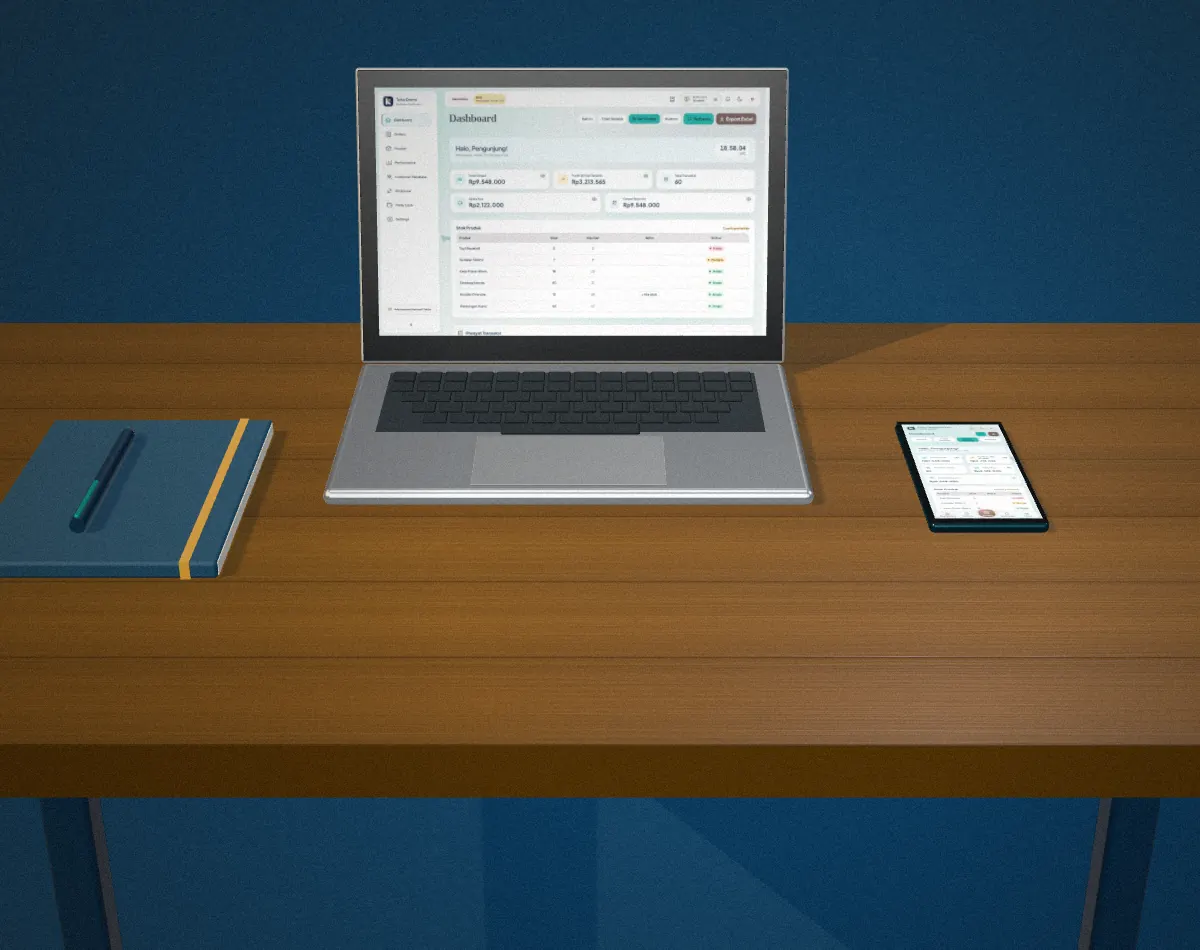
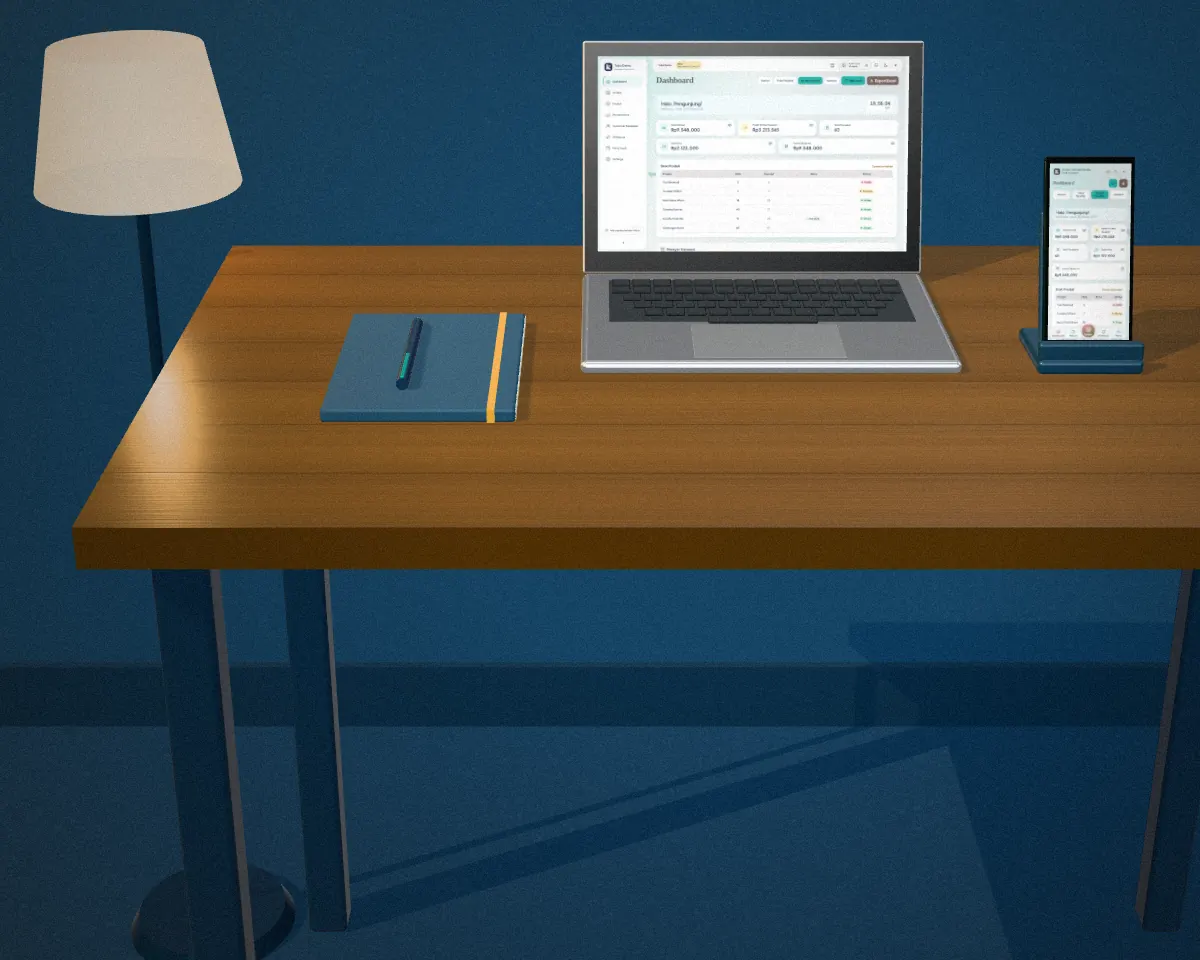
hero: lampu berdiri, HP di phone holder, pigura dinding, meja lebih maju
Revisi terakhir owner. HP berdiri supaya layar dashboard terlihat, lampu setinggi laptop
di kiri meja, dinding diberi plint + satu pigura abstrak palet Kairo (tidak ramai).
Geser lensa kamera kini berskala sama di dua arah (sebelumnya gambar sedikit melebar).
Kap lampu & pigura ditempatkan di luar area logo dan menu.

Claude-Session: https://claude.ai/code/session_01LPzsaCKs45cXjg8tn567aQ

diff --git a/.claude/testing/hero3d/scene.html b/.claude/testing/hero3d/scene.html
@@ -42,7 +42,18 @@ const floorTex=canvasTex(1024,1024,(x,w,h)=>{x.fillStyle='#173a59';x.fillRect(0,
 const floor=new THREE.Mesh(new THREE.PlaneGeometry(900,900),new THREE.MeshStandardMaterial({map:floorTex,roughness:.92}));floor.rotation.x=-Math.PI/2;floor.position.y=-TH-LEG;floor.receiveShadow=true;scene.add(floor);
 scene.background=new THREE.Color('#173a59');
 const wallTex=canvasTex(1024,1024,(x,w,h)=>{x.fillStyle='#1f4668';x.fillRect(0,0,w,h);for(let i=0;i<90000;i++){x.fillStyle=`rgba(${rnd()<.5?'255,255,255':'0,0,0'},${rnd()*.025})`;x.fillRect(rnd()*w,rnd()*h,2,2)}},[4,3]);
-const wall=new THREE.Mesh(new THREE.PlaneGeometry(700,320),new THREE.MeshStandardMaterial({map:wallTex,roughness:.95}));wall.position.set(0,-TH-LEG+160,-DD/2-14);wall.receiveShadow=true;scene.add(wall);
+const wall=new THREE.Mesh(new THREE.PlaneGeometry(700,320),new THREE.MeshStandardMaterial({map:wallTex,roughness:.95}));wall.position.set(0,-TH-LEG+160,-DD/2-34);wall.receiveShadow=true;scene.add(wall);
+const WZ=-DD/2-34,FY=-TH-LEG;
+const skirt=new THREE.Mesh(new THREE.BoxGeometry(700,9,1.2),new THREE.MeshStandardMaterial({color:'#123049',roughness:.7}));skirt.position.set(0,FY+4.5,WZ+.6);skirt.receiveShadow=true;scene.add(skirt);
+// pigura: bingkai kayu tipis, passe-partout putih tulang, karya abstrak palet Kairo (lingkaran emas, busur toska, garis delft)
+const artTex=canvasTex(800,1000,(x,w,h)=>{x.fillStyle='#fbfcf8';x.fillRect(0,0,w,h);x.fillStyle='#dceff4';x.fillRect(90,90,w-180,h-180);
+  x.fillStyle='#dfa94a';x.beginPath();x.arc(w*.6,h*.38,120,0,7);x.fill();
+  x.strokeStyle='#25b9b0';x.lineWidth=46;x.beginPath();x.arc(w*.42,h*.66,150,Math.PI*1.05,Math.PI*1.95);x.stroke();
+  x.fillStyle='#173a59';x.fillRect(150,h-230,w-300,18);});
+const art=new THREE.Group();scene.add(art);
+const frame=new THREE.Mesh(new THREE.BoxGeometry(34,42,1.6),new THREE.MeshStandardMaterial({color:'#5a3a12',roughness:.5}));frame.castShadow=true;art.add(frame);
+const canvasArt=new THREE.Mesh(new THREE.PlaneGeometry(31,39),new THREE.MeshStandardMaterial({map:artTex,roughness:.85}));canvasArt.position.z=.82;art.add(canvasArt);
+art.position.set(-6,38,WZ+.9);art.scale.setScalar(.72);
 // buku catatan (sampul delft, karet emas) + pulpen di atasnya = 2 item, sejajar rapi di kiri laptop
 const book=new THREE.Group();scene.add(book);
 const cover=new THREE.Mesh(new RoundedBoxGeometry(15,1.1,21,3,.25),new THREE.MeshPhysicalMaterial({color:'#31556f',roughness:.55,sheen:.3}));cover.position.y=.55;cover.castShadow=cover.receiveShadow=true;book.add(cover);
@@ -83,14 +94,31 @@ const pbody=new THREE.Mesh(new RoundedBoxGeometry(PW,0.8,PL,8,0.9),new THREE.Mes
 const pglass=new THREE.Mesh(new RoundedBoxGeometry(PW-0.2,0.02,PL-0.2,6,0.8),new THREE.MeshStandardMaterial({color:'#05080a',roughness:.15}));pglass.position.y=0.81;phone.add(pglass);
 const ps=await tex('hero-phone.webp');const PSW=PW-0.75,PSH=PSW*1125/520;
 const pscreen=new THREE.Mesh(new THREE.PlaneGeometry(PSW,Math.min(PSH,PL-0.75)),new THREE.MeshBasicMaterial({map:ps,toneMapped:false}));pscreen.rotation.x=-Math.PI/2;pscreen.position.y=0.83;phone.add(pscreen);
-phone.position.set(30,0,-1);
+const HOLD_A=1.22;// kemiringan HP (~70 derajat dari meja)
+phone.rotation.x=HOLD_A;phone.position.set(30,1.4+(PL/2)*Math.sin(HOLD_A)*.98+.3,-2);
+const holdMat=new THREE.MeshPhysicalMaterial({color:'#31556f',metalness:.6,roughness:.35,clearcoat:.4});
+const holder=new THREE.Group();scene.add(holder);
+const hBase=new THREE.Mesh(new RoundedBoxGeometry(8.6,1.2,8,3,.4),holdMat);hBase.position.y=.6;hBase.castShadow=hBase.receiveShadow=true;holder.add(hBase);
+const hBack=new THREE.Mesh(new RoundedBoxGeometry(6.4,11,0.7,3,.3),holdMat);hBack.rotation.x=HOLD_A-Math.PI/2;hBack.position.set(0,6,-3.2);hBack.castShadow=true;holder.add(hBack);
+const hLip=new THREE.Mesh(new RoundedBoxGeometry(8.6,1.6,1,3,.3),holdMat);hLip.position.set(0,1.8,3.1);hLip.castShadow=true;holder.add(hLip);
+holder.position.set(30,0,-2+Math.cos(HOLD_A)*PL/2-1.6);
+// lampu berdiri (lantai -> setinggi laptop), kap kain putih tulang, cahaya hangat
+const lamp=new THREE.Group();scene.add(lamp);
+const LMx=-53,LMz=-24,LTOP=21;
+const lMetal=new THREE.MeshPhysicalMaterial({color:'#173a59',metalness:.7,roughness:.3,clearcoat:.5});
+const lBase=new THREE.Mesh(new THREE.CylinderGeometry(8,9,1.8,48),lMetal);lBase.position.y=FY+1.1;lBase.castShadow=lBase.receiveShadow=true;lamp.add(lBase);
+const poleH=LTOP-13-FY;const pole=new THREE.Mesh(new THREE.CylinderGeometry(.6,.6,poleH,24),lMetal);pole.position.y=FY+poleH/2;pole.castShadow=true;lamp.add(pole);
+const shade=new THREE.Mesh(new THREE.CylinderGeometry(7,9.5,13,48,1,true),new THREE.MeshStandardMaterial({color:'#fbfcf8',emissive:'#ffcf8a',emissiveIntensity:.55,roughness:.9,side:THREE.DoubleSide,transparent:true,opacity:.97}));shade.position.y=LTOP-6.5;lamp.add(shade);
+const bulb=new THREE.PointLight('#ffc77a',1800,0,2);bulb.position.y=LTOP-7;bulb.castShadow=false;lamp.add(bulb);
+lamp.position.set(LMx,0,LMz);
 // lampu: matahari sore dari jendela kiri-belakang, isian langit sejuk
 const sun=new THREE.DirectionalLight('#ffe2b8',3.2);sun.position.set(-120,110,60);sun.castShadow=true;sun.shadow.mapSize.set(4096,4096);sun.shadow.radius=6;sun.shadow.blurSamples=20;sun.shadow.bias=-0.0003;sun.shadow.normalBias=.05;Object.assign(sun.shadow.camera,{left:-140,right:140,top:140,bottom:-140,near:1,far:500});scene.add(sun);
 scene.add(new THREE.HemisphereLight('#cfe4ff','#4a3010',0.55));
 const fill=new THREE.DirectionalLight('#dceff4',.45);fill.position.set(50,40,60);scene.add(fill);
-const cam=new THREE.PerspectiveCamera(variant==='wide'?30:36,W/H,1,900);
+const cam=new THREE.PerspectiveCamera(variant==='wide'?44:36,W/H,1,900);
 // POV orang yang duduk di depan laptop: kamera lurus di tengah; versi lebar menggeser lensa supaya laptop di kanan (kiri untuk teks).
-if(variant==='wide'){cam.position.set(18,62,150);cam.lookAt(14,-10,-8);cam.setViewOffset(W*1.66,H*1.06,0,H*0.02,W,H)}else{cam.position.set(6,52,108);cam.lookAt(6,-8,-8)}
+if(variant==='wide'){// geser lensa: skala SAMA di dua arah (kalau beda, gambar melebar)
+const K=1.5;cam.position.set(12,60,150);cam.lookAt(8,-10,-8);cam.setViewOffset(W*K,H*K,0,-H*0.08,W,H)}else{cam.position.set(-10,58,142);cam.lookAt(-10,-6,-8)}
 r.render(scene,cam);
 // grain + vignette (2D) supaya terasa hasil kamera
 const out=document.createElement('canvas');out.width=W;out.height=H;const o=out.getContext('2d');o.drawImage(r.domElement,0,0);

diff --git a/index.html b/index.html
@@ -219,8 +219,8 @@ html.kairo-standalone #kairo-splash.is-leaving{opacity:0;visibility:hidden;point
   <main class="kairo-landing-main">
     <section id="home" class="kairo-lp-hero" aria-labelledby="hero-title">
       <picture class="kairo-hero-scene">
-        <source media="(max-width: 900px)" srcset="assets/landing/hero-desk-hp.webp" width="1200" height="950">
-        <img src="assets/landing/hero-desk.webp" width="2400" height="1350" alt="Meja kerja kayu dengan laptop dan HP yang sama-sama membuka dashboard KAIRO Workspaces milik Toko Demo (omzet, profit, transaksi, stok produk), serta buku catatan dan pulpen yang tertata rapi." fetchpriority="high" decoding="async">
+        <source media="(max-width: 900px)" srcset="assets/landing/hero-desk-hp.webp" width="1200" height="960">
+        <img src="assets/landing/hero-desk.webp" width="2400" height="1350" alt="Meja kerja kayu dengan laptop dan HP di phone holder yang sama-sama membuka dashboard KAIRO Workspaces milik Toko Demo (omzet, profit, transaksi, stok produk), buku catatan dan pulpen, lampu berdiri di samping meja, dan satu pigura di dinding." fetchpriority="high" decoding="async">
       </picture>
       <div class="kairo-entry-container kairo-hero-inner">
         <div class="kairo-hero-head" data-kairo-reveal>

diff --git a/.claude/CLAUDE.md b/.claude/CLAUDE.md
@@ -106,10 +106,10 @@ kartu yang tidak ter-update, cek cabang tab-nya di sini).
 
 - **Hero landing baru (owner 30 Okt 2026, PREVIEW sebelum merge):** komposisi gaya referensi produk. Identitas brand dipetakan di `docs/brand.md`
   (keputusan owner: navy resmi = website `#173a59`, bukan navy kit logo `#1F305E`; logo putih boleh -> `assets/brand/kairo-horizontal-white.svg` = logo resmi dengan navy diganti putih).
-  **Scene = render 3D STATIS (owner: tidak mau ilustrasi/animasi/interaktif; mau seperti foto kamera; referensi akhir = foto lifestyle laptop di meja dengan dinding di belakang):** meja kayu BERKAKI (meja tidak memenuhi gambar: ujung kiri + kaki terlihat, kiri kosong untuk teks), dinding & lantai delft (warna identitas Kairo harus dominan, jangan cokelat semua), 2 item saja: buku catatan (sampul #31556f, karet emas) + pulpen navy berklip toska di atasnya; laptop + HP rapi dari sudut pandang orang yang duduk membuka web (laptop lurus, HP sejajar di sampingnya,
+  **Scene = render 3D STATIS (owner: tidak mau ilustrasi/animasi/interaktif; mau seperti foto kamera; referensi akhir = foto lifestyle laptop di meja dengan dinding di belakang):** meja kayu BERKAKI (meja tidak memenuhi gambar: ujung kiri + kaki terlihat, kiri kosong untuk teks), dinding & lantai delft (warna identitas Kairo harus dominan, jangan cokelat semua), 2 item saja: buku catatan (sampul #31556f, karet emas) + pulpen navy berklip toska di atasnya; lampu berdiri di kiri meja (lantai sampai setinggi laptop, kap putih tulang menyala hangat), meja agak maju dari dinding, dinding dihias secukupnya (plint + 1 pigura abstrak palet Kairo), HP BERDIRI di phone holder delft supaya layarnya terlihat; laptop + HP rapi dari sudut pandang orang yang duduk membuka web (laptop lurus, HP sejajar di sampingnya,
   BUKAN di atas laptop), layar = dashboard asli demo Online Shop "Toko Demo" dan HARUS tajam (owner: jangan blur; blur lensa/BokehPass & post-processing three.js dilepas karena memudarkan layar). Gambar: `assets/landing/hero-desk.webp`
   (2400x1350, desktop, `object-position` kanan) dan `hero-desk-hp.webp` (1200x820, <=900px), WebP quality 76. Dibuat ulang: `.claude/testing/shoot-hero.js` (tekstur layar -> `hero3d/hero-*.webp`) lalu `hero3d/render.js` (three.js 0.170 dari `npm pack`, folder `pkg/` tidak di-commit; render di Chromium SwiftShader ±1,5 mnt; grain + vignette 2D).
-  Warna kayu dari keluarga emas palet; latar hero = `--kairo-delft` (menyambung dengan dinding/lantai render), tanpa scrim. Situs foto/mockup (Unsplash, Pexels, Poly Haven) diblokir sandbox.
+  Geser lensa versi lebar (`setViewOffset`) WAJIB skala sama di dua arah (W*K, H*K), kalau beda gambar melebar; kap lampu & pigura harus di luar area logo/menu (dicek di 1440x900, gambar di-crop cover dari kiri). Warna kayu dari keluarga emas palet; latar hero = `--kairo-delft` (menyambung dengan dinding/lantai render), tanpa scrim. Situs foto/mockup (Unsplash, Pexels, Poly Haven) diblokir sandbox.
   Tagline "Mulai kisahmu disini. Buat jadi berarti." (tanda baca persis), h1 = logo resmi putih (opsi A owner), kartu kaca `.kairo-hero-card` (copy lama + tombol Coba KAIRO Gratis/Coba Demo), "Gulir untuk lanjut" -> `#home-highlights`.
   Menu di atas hero = transparan + ikon K (`#kairo-entry[data-nav-dark]`, `syncNavDark()` kairo-v3.js saat scroll); tinggi menu -> `--hero-nav` (`syncNavHeight()`, hanya ganti halaman/resize).
   HP <=900px: tagline+logo, gambar, kartu (section jadi grid lewat selector ber-id karena `#kairo-entry[data-page] ... > #home{display:block}` lebih kuat). Mockup dashboard HTML lama + 97 rule CSS-nya dihapus.
